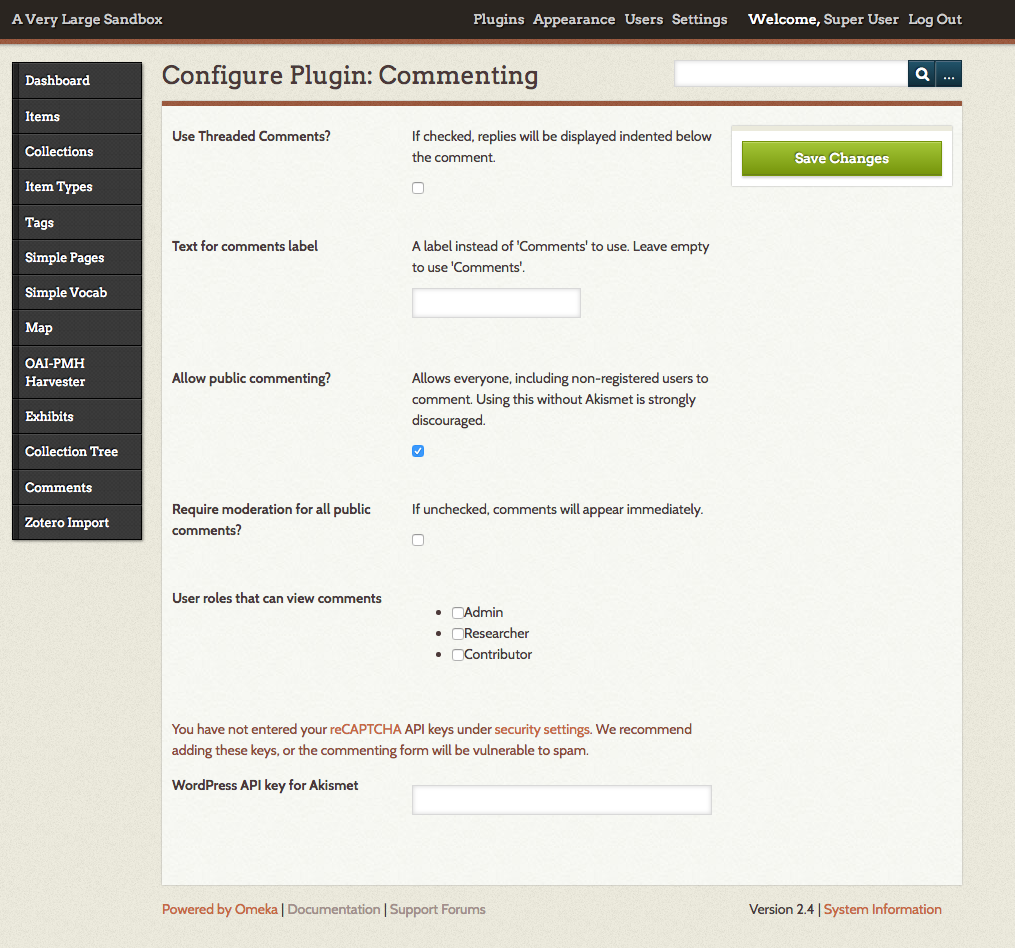
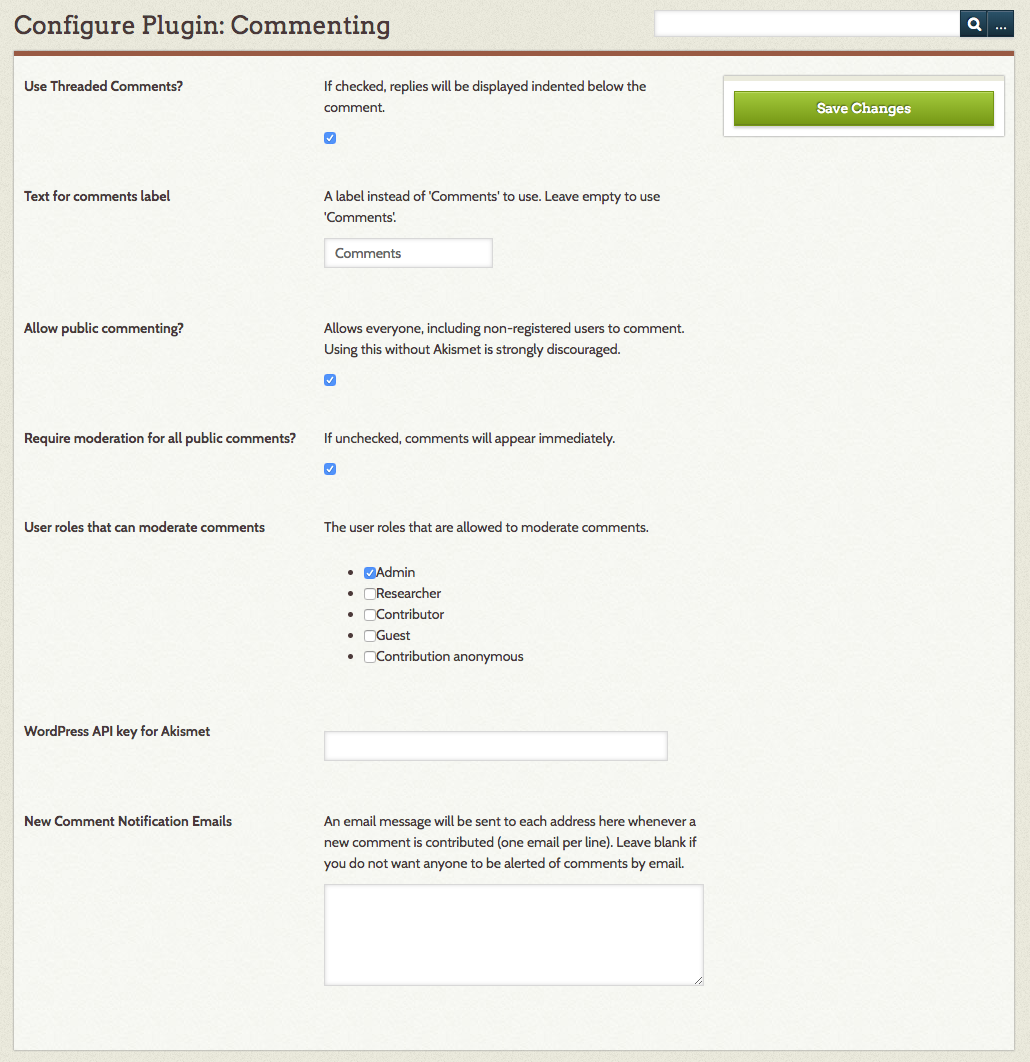
Commenting updates

Changed region(s): [[0.0, 0.0, 1.0, 1.0], [0.3054, 0.2447, 0.7025, 0.3671], [0.6719, 0.8259, 0.7025, 0.8565]]

diff --git a/docs/Plugins/Commenting.md b/docs/Plugins/Commenting.md
@@ -8,18 +8,25 @@ Configuring
 Before you can use the Commenting plugin, you must activate and
 configure it from the Browse Plugins page. To configure, click the blue “Configure” button beside the plugin on the Browse Plugin page. You will be prompted to select your security, moderation, and commenting preferences.
 
-**Threaded Comments**: Check to allow threaded comments, or comments that allow users to respond to another user by replying with additional comments. If you wish to use a label other than “Comments,” you may enter the text here.
-
-**Permissions**: Here you will select the roles that are able to
-moderate, add, and view comments. Each function allows you to choose one or more roles with permission to perform that function.
-
-*NOTE: Allowing public commenting will override the permissions set for adding and viewing comments -- they will be open to all.*
-
-**ReCaptcha Keys**: Adding ReCaptcha helps prevent automated spam from being posted as comments to your site. Public and private ReCaptcha keys duplicate the fields found in the Omeka Security settings, so if you have already entered keys in those settings, you do not need to re-enter. If you do not have one, go to [ReCapcha](http://www.ReCaptcha.net/) to sign up for a free account.
-
-**Akismet API key**: If you are allowing public, unmoderated commenting, we recommend you obtain an [Akismet](http://akismet.com/) API key for spam management. You may use a key you are currently implementing on a blog or another site that collects public feedback, provided that that key is not site-specific in the key settings on the Akismet site.
-
 ![Configuration settings](/doc_files/plugin_images/commenting_config.png)
+
+The configuration options are:
+
+**Use Threaded Comments?**: Check to allow threaded comments, or comments that allow users to respond to another user by replying with additional comments. 
+
+**Text for comments label**: If you wish to use a label other than “Comments,” you may enter the text here. If the field is empty, the section on the page will simply be called "Comments."
+
+**Allow public commenting**: Check this box to allow anyone, including non-registered users, to make comments. 
+
+**Require moderation for all public comments**: Check this to hide public comments until they have been reviewed by a moderator (see below). If unchecked, comments appear immediately (but moderators can still delete).
+
+**User roles that can moderate comments**: Select at least one user role to moderate comments. The list will include all possible user roles, from admin to guest.
+
+**WordPress API key for Akismet**: If you are allowing public, unmoderated commenting and you have a WordPress account, you can use your [Akismet](http://akismet.com/) API key for spam management. You may use a key you are currently implementing on a blog or another site that collects public feedback, provided that that key is not site-specific in the key settings on the Akismet site. 
+
+In addition to Akistmet, you may want to set up [reCAPTCHA](/Admin/Settings/ReCaptcha) for your Omeka site, found in the [Security Settings](Admin/Settings/Security_Settings). 
+
+**New comment notification emails**: Use this field to enter the emails to which a notification of new comments should be sent. Enter one email per line. 
 
 Commenting
 --------------------------
